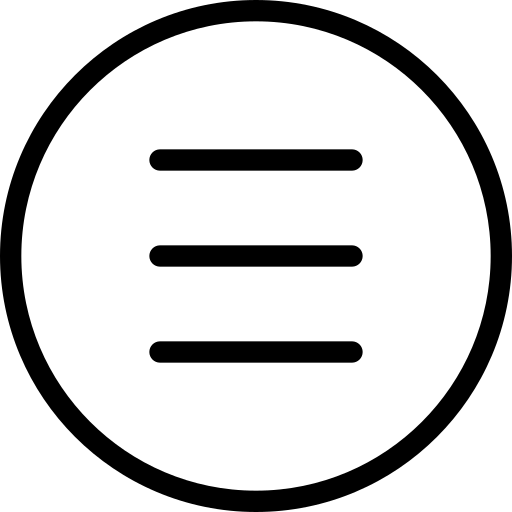
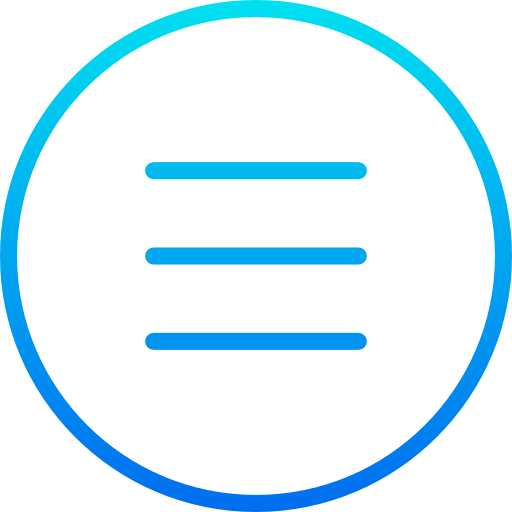
Notification

diff --git a/views/DashboardView.tsx b/views/DashboardView.tsx
@@ -208,7 +208,7 @@ class DashboardView extends React.Component<
                 // this.props.navigation.navigate('MapView');
               }}>
               <Image
-                source={require('../assets/white-menu.png')}
+                source={require('../assets/menu.png')}
                 style={styles.iconStyle}
               />
             </TouchableOpacity>
@@ -284,6 +284,7 @@ class DashboardView extends React.Component<
               />
             </TouchableOpacity>
           </View>
+
           <Text style={styles.titleStyle}>{this.state.dutyCall}</Text>
           <View style={styles.switchStyle}>
             <ToggleSwitch
@@ -357,6 +358,7 @@ const styles = StyleSheet.create({
     height: '100%',
     backgroundColor: 'black',
   },
+
   iconStyle: {
     width: 40,
     height: 40,
